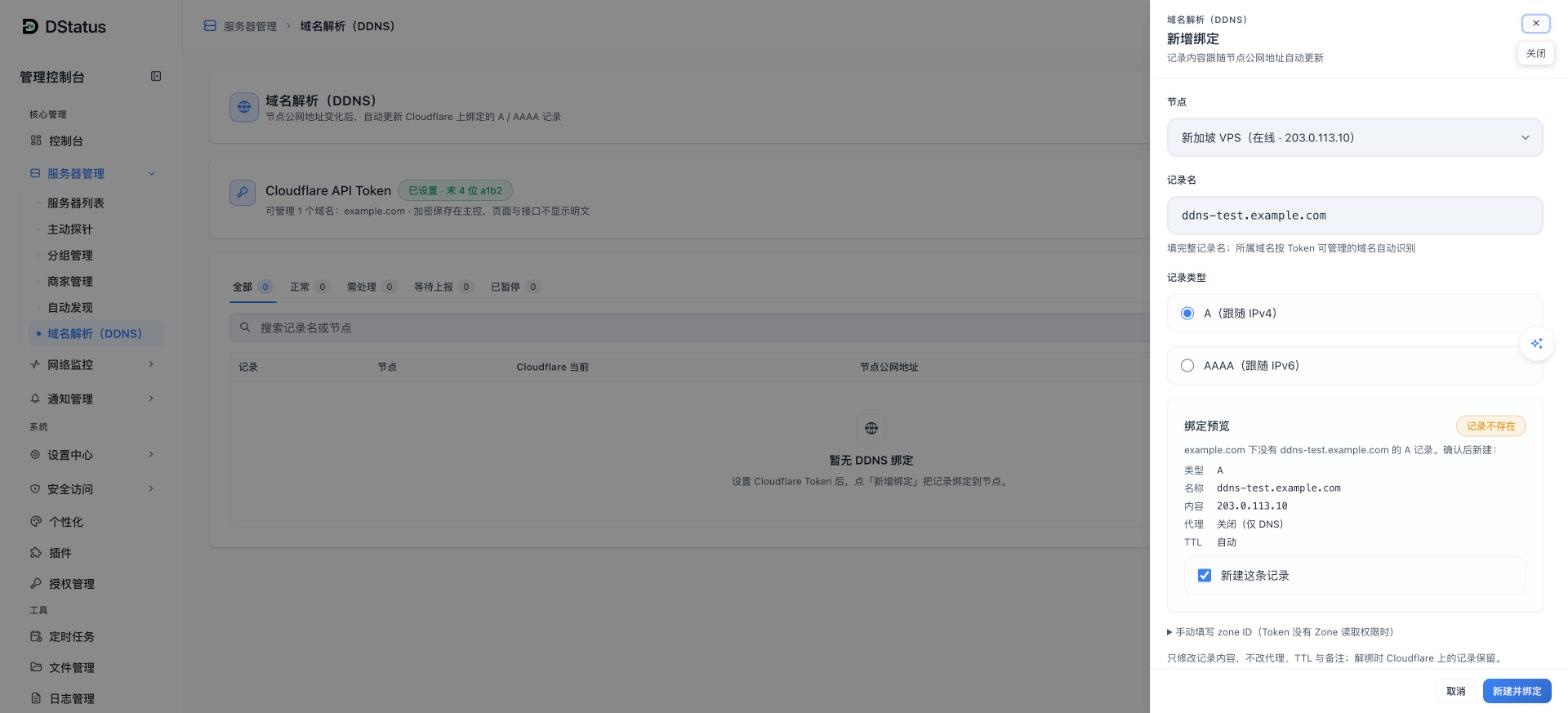
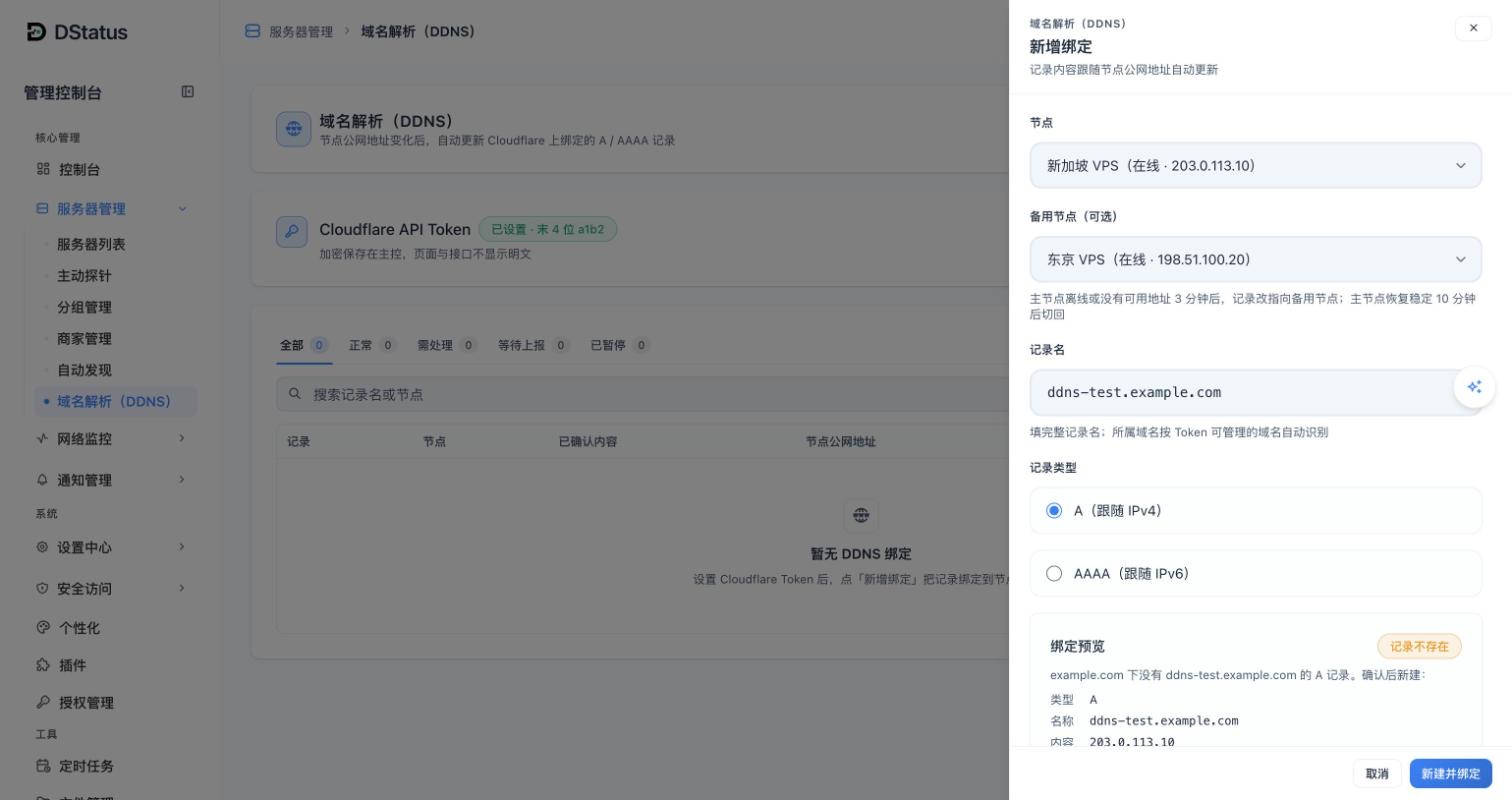
docs(ddns): 教程补备用节点、换服务器注意事项与主备切换通知；新增绑定截图换成带备用节点的版本（待发布，未挂导航）

diff --git a/ddns.md b/ddns.md
@@ -60,15 +60,24 @@
 
 ![DDNS 绑定列表](/ddns-list.jpg)
 
+## 备用节点
+
+绑定时可以再选一个「备用节点」。主节点离线（或没有可用的公网地址）超过 3 分钟，记录自动改指向备用节点；主节点恢复并稳定 10 分钟后自动切回。备用节点也不可用时保持原样不改。每次切换会发「DDNS 主备切换」通知。
+
+已有绑定在列表里点「修改节点」即可设置或更换备用节点，也可以把主、备对调。
+
+> 切换是按节点离线判断的。节点在线但从某些地区访问不通（例如线路被封）时不会切换。
+
 ## 状态说明
 
 | 状态 | 含义 | 要做什么 |
 |---|---|---|
 | 正常 | Cloudflare 上已是节点当前地址 | 无 |
+| 备用中 | 主节点不可用，已切到备用节点 | 主节点恢复稳定后自动切回 |
 | 同步中 | 节点地址变了，正在写入 | 稍等片刻 |
 | 等待节点上报 | 节点离线，或还没上报可用的公网地址 | 检查节点是否在线 |
 | 写入失败，重试中 | 暂时连不上 Cloudflare 等原因，会自动重试 | 持续失败会收到通知 |
-| 需处理 | 记录在 Cloudflare 上被改动或删除、域名不可访问、Token 失效 | 按提示处理后点「恢复」 |
+| 需处理 | 记录在 Cloudflare 上被改动或删除、域名不可访问、Token 失效、节点地址短时间内反复变化 | 按提示处理后点「恢复」 |
 | 已暂停 | 你手动暂停了这条记录 | 需要时点「恢复」 |
 
 「需处理」时面板不会自动改回，以免覆盖你的手动修改。点「恢复」前会先告诉你 Cloudflare 上现在的值和恢复后将写入的值，确认后才改写。Token 失效时，换一个新 Token 保存后会自动恢复。
@@ -85,7 +94,10 @@
 面板使用节点上报的出口地址。经代理出网、出口地址与服务地址不同的情况，DDNS 写入的可能不是你想要的地址，暂不支持。
 
 **会收到通知吗？**
-「需处理」和恢复时会通知。是否发送、发到哪里，在 通知管理 → 通知规则 →「系统提醒」里的「DDNS 需处理」「DDNS 已恢复」设置。
+「需处理」、恢复和主备切换时会通知。是否发送、发到哪里，在 通知管理 → 通知规则 →「系统提醒」里的「DDNS 需处理」「DDNS 已恢复」「DDNS 主备切换」设置。
+
+**换服务器时要注意什么？**
+在新服务器上用原节点身份装好被控后，记录会自动改到新地址。记得先停掉旧服务器上的被控：两台同时用一个节点身份上报，地址会来回变化，面板会暂停这条记录并通知你。
 
 **解绑或删除节点会删掉 DNS 记录吗？**
 不会。解绑、删除节点只停止自动更新，Cloudflare 上的记录保留。
